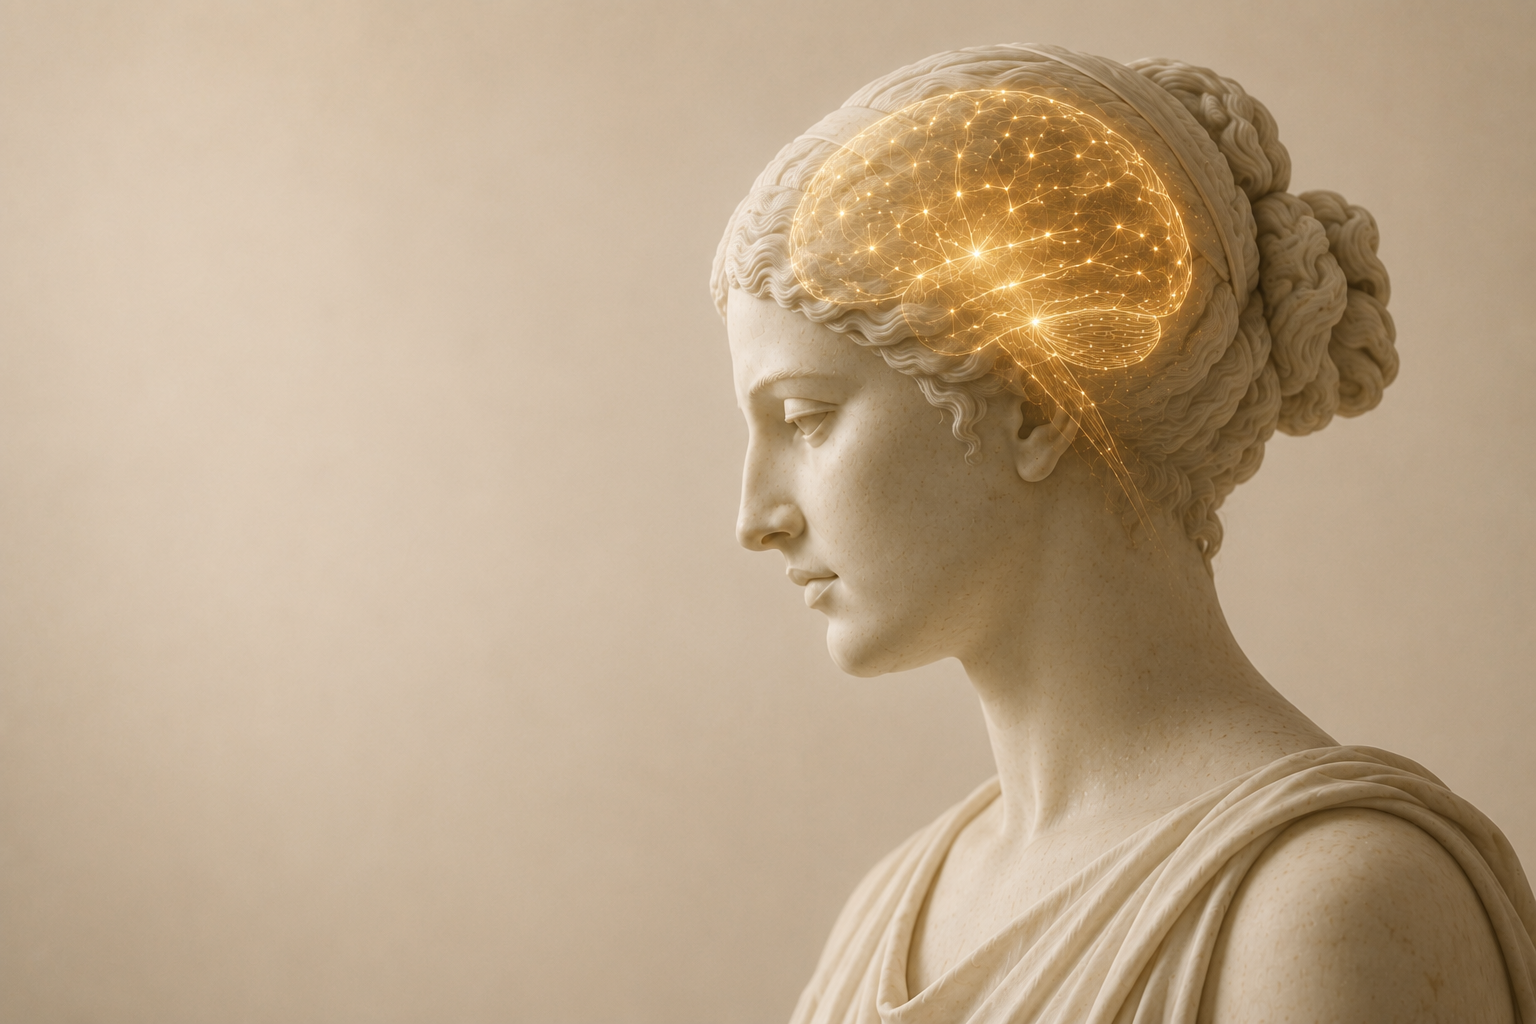
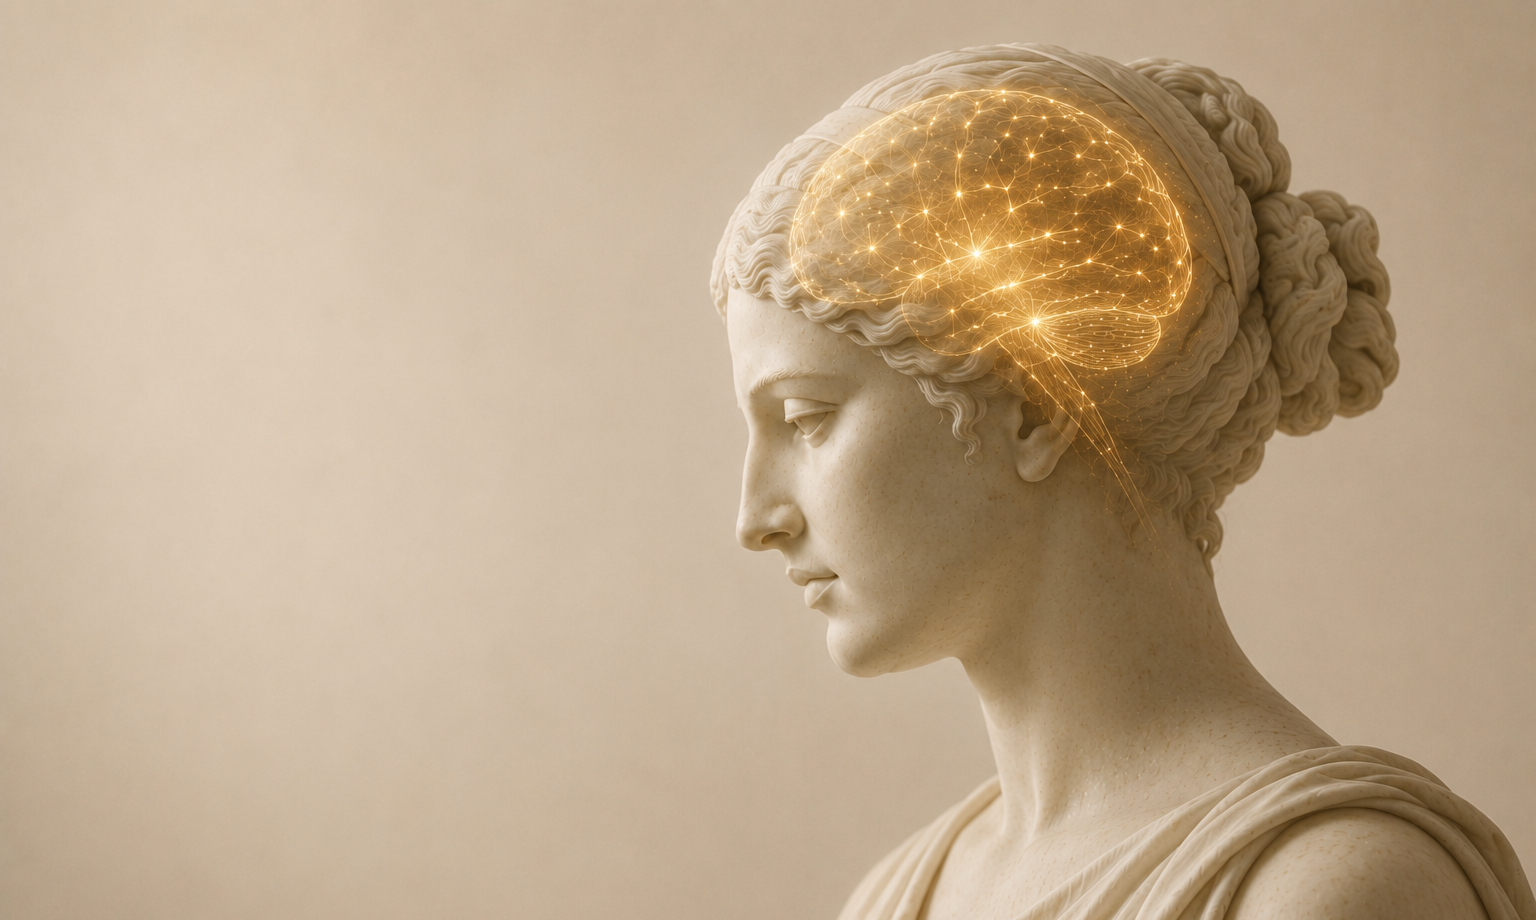
pics updated

Changed region(s): [[0.4375, 0.0304, 1.0, 1.0]]

diff --git a/reservation-en.html b/reservation-en.html
@@ -80,9 +80,8 @@
     .venue-split {
       display: grid;
       grid-template-columns: 1fr 1fr;
-      min-height: clamp(340px, 46vw, 580px);
     }
-    .venue-split__img { width: 100%; height: 100%; object-fit: cover; display: block; }
+    .venue-split__img { width: 100%; height: auto; display: block; }
     .venue-split__text {
       padding: var(--space-12) var(--space-10);
       background: var(--color-dark-bg);
@@ -179,7 +178,7 @@
         src="assets/images/retreat-hero.jpg"
         alt="Serene coastal landscape — the setting for The Reset Retreat"
         loading="eager"
-        style="position: absolute; inset: 0; width: 100%; height: 100%; object-fit: cover; opacity: 0.45;"
+        style="position: absolute; inset: 0; width: 100%; height: 100%; object-fit: contain; opacity: 0.45;"
       />
       <div style="position: absolute; inset: 0; background: linear-gradient(to bottom, rgba(19,35,58,0.05) 0%, rgba(19,35,58,0.90) 100%);"></div>
       <div class="container" style="position: relative; z-index: 1; width: 100%; padding-bottom: var(--space-16);">
@@ -234,12 +233,12 @@
     </section>
 
     <!-- ── Collage image break ─────────────────────────────── -->
-    <div aria-hidden="true" style="height: clamp(260px, 42vw, 540px); overflow: hidden;">
+    <div aria-hidden="true">
       <img
-        src="assets/images/reservation-collage.png"
+        src="assets/images/zeny.png"
         alt=""
         loading="lazy"
-        style="width: 100%; height: 100%; object-fit: cover; object-position: center;"
+        style="width: 100%; height: auto; display: block;"
       />
     </div>
 
@@ -290,12 +289,12 @@
     </div>
 
     <!-- ── Activities image break ─────────────────────────── -->
-    <div aria-hidden="true" style="height: clamp(260px, 42vw, 520px); overflow: hidden;">
+    <div aria-hidden="true">
       <img
         src="assets/images/reservation-activities.png"
         alt=""
         loading="lazy"
-        style="width: 100%; height: 100%; object-fit: cover; object-position: center;"
+        style="width: 100%; height: auto; display: block;"
       />
     </div>
 
@@ -330,12 +329,12 @@
     </section>
 
     <!-- ── Landscape image break ──────────────────────────── -->
-    <div aria-hidden="true" style="height: clamp(200px, 32vw, 420px); overflow: hidden;">
+    <div aria-hidden="true">
       <img
         src="assets/images/reservation-landscape.jpg"
         alt=""
         loading="lazy"
-        style="width: 100%; height: 100%; object-fit: cover; object-position: center 40%;"
+        style="width: 100%; height: auto; display: block;"
       />
     </div>
 

diff --git a/reservation.html b/reservation.html
@@ -80,9 +80,8 @@
     .venue-split {
       display: grid;
       grid-template-columns: 1fr 1fr;
-      min-height: clamp(340px, 46vw, 580px);
     }
-    .venue-split__img { width: 100%; height: 100%; object-fit: cover; display: block; }
+    .venue-split__img { width: 100%; height: auto; display: block; }
     .venue-split__text {
       padding: var(--space-12) var(--space-10);
       background: var(--color-dark-bg);
@@ -179,7 +178,7 @@
         src="assets/images/retreat-hero.jpg"
         alt="Klidná pobřežní krajina — místo konání Reset Retreatu"
         loading="eager"
-        style="position: absolute; inset: 0; width: 100%; height: 100%; object-fit: cover; opacity: 0.45;"
+        style="position: absolute; inset: 0; width: 100%; height: 100%; object-fit: contain; opacity: 0.45;"
       />
       <div style="position: absolute; inset: 0; background: linear-gradient(to bottom, rgba(19,35,58,0.05) 0%, rgba(19,35,58,0.90) 100%);"></div>
       <div class="container" style="position: relative; z-index: 1; width: 100%; padding-bottom: var(--space-16);">
@@ -246,12 +245,12 @@
     </section>
 
     <!-- ── Obrazová pauza — koláž ─────────────────────────── -->
-    <div aria-hidden="true" style="height: clamp(260px, 42vw, 540px); overflow: hidden;">
+    <div aria-hidden="true">
       <img
-        src="assets/images/reservation-collage.png"
+        src="assets/images/zeny.png"
         alt=""
         loading="lazy"
-        style="width: 100%; height: 100%; object-fit: cover; object-position: center;"
+        style="width: 100%; height: auto; display: block;"
       />
     </div>
 
@@ -321,12 +320,12 @@
     </div>
 
     <!-- ── Obrazová pauza — aktivity ──────────────────────── -->
-    <div aria-hidden="true" style="height: clamp(260px, 42vw, 520px); overflow: hidden;">
+    <div aria-hidden="true">
       <img
         src="assets/images/reservation-activities.png"
         alt=""
         loading="lazy"
-        style="width: 100%; height: 100%; object-fit: cover; object-position: center;"
+        style="width: 100%; height: auto; display: block;"
       />
     </div>
 
@@ -361,12 +360,12 @@
     </section>
 
     <!-- ── Obrazová pauza — krajina ───────────────────────── -->
-    <div aria-hidden="true" style="height: clamp(200px, 32vw, 420px); overflow: hidden;">
+    <div aria-hidden="true">
       <img
         src="assets/images/reservation-landscape.jpg"
         alt=""
         loading="lazy"
-        style="width: 100%; height: 100%; object-fit: cover; object-position: center 40%;"
+        style="width: 100%; height: auto; display: block;"
       />
     </div>
 

diff --git a/retreats.html b/retreats.html
@@ -23,8 +23,8 @@
     .retreat-details summary::after { content: '+'; font-family: var(--font-body); font-style: normal; font-size: 1.25rem; color: var(--color-text-muted); transition: transform var(--transition); line-height: 1; }
     .retreat-details[open] summary::after { content: '−'; }
 
-    .retreat-split { display: grid; grid-template-columns: 1fr 1fr; min-height: clamp(280px, 38vw, 500px); }
-    .retreat-split__img { width: 100%; height: 100%; object-fit: cover; display: block; }
+    .retreat-split { display: grid; grid-template-columns: 1fr 1fr; }
+    .retreat-split__img { width: 100%; height: auto; display: block; }
     .retreat-split__text { display: flex; align-items: center; justify-content: center; padding: var(--space-12) var(--space-10); background: var(--color-bg-secondary); }
     @media (max-width: 640px) {
       .retreat-split { grid-template-columns: 1fr; }
@@ -81,7 +81,7 @@
         src="assets/images/retreat-hero.jpg"
         alt="Klidná přírodní pobřežní krajina"
         loading="eager"
-        style="position: absolute; inset: 0; width: 100%; height: 100%; object-fit: cover; opacity: 0.52;"
+        style="position: absolute; inset: 0; width: 100%; height: 100%; object-fit: contain; opacity: 0.52;"
       />
       <div style="position: absolute; inset: 0; background: linear-gradient(to bottom, rgba(19,35,58,0) 20%, rgba(19,35,58,0.92) 100%);"></div>
       <div class="container" style="position: relative; z-index: 1; width: 100%; padding-bottom: var(--space-16);">
@@ -135,12 +135,12 @@
     </section>
 
     <!-- Obrazová pauza 1 — plná šířka, filmový formát -->
-    <div aria-hidden="true" style="height: clamp(260px, 42vw, 520px); overflow: hidden;">
+    <div aria-hidden="true">
       <img
         src="assets/images/retreat-photo-1.jpg"
         alt=""
         loading="lazy"
-        style="width: 100%; height: 100%; object-fit: cover; object-position: center 35%;"
+        style="width: 100%; height: auto; display: block;"
       />
     </div>
 
@@ -215,12 +215,12 @@
     </section>
 
     <!-- Obrazová pauza 3 — kratší plná šířka, přechod zpět do světla -->
-    <div aria-hidden="true" style="height: clamp(200px, 30vw, 380px); overflow: hidden;">
+    <div aria-hidden="true">
       <img
         src="assets/images/retreat-photo-2.jpg"
         alt=""
         loading="lazy"
-        style="width: 100%; height: 100%; object-fit: cover; object-position: center 50%;"
+        style="width: 100%; height: auto; display: block;"
       />
     </div>
 

diff --git a/retreats-en.html b/retreats-en.html
@@ -23,8 +23,8 @@
     .retreat-details summary::after { content: '+'; font-family: var(--font-body); font-style: normal; font-size: 1.25rem; color: var(--color-text-muted); transition: transform var(--transition); line-height: 1; }
     .retreat-details[open] summary::after { content: '−'; }
 
-    .retreat-split { display: grid; grid-template-columns: 1fr 1fr; min-height: clamp(280px, 38vw, 500px); }
-    .retreat-split__img { width: 100%; height: 100%; object-fit: cover; display: block; }
+    .retreat-split { display: grid; grid-template-columns: 1fr 1fr; }
+    .retreat-split__img { width: 100%; height: auto; display: block; }
     .retreat-split__text { display: flex; align-items: center; justify-content: center; padding: var(--space-12) var(--space-10); background: var(--color-bg-secondary); }
     @media (max-width: 640px) {
       .retreat-split { grid-template-columns: 1fr; }
@@ -81,7 +81,7 @@
         src="assets/images/retreat-hero.jpg"
         alt="Peaceful natural coastal landscape"
         loading="eager"
-        style="position: absolute; inset: 0; width: 100%; height: 100%; object-fit: cover; opacity: 0.52;"
+        style="position: absolute; inset: 0; width: 100%; height: 100%; object-fit: contain; opacity: 0.52;"
       />
       <div style="position: absolute; inset: 0; background: linear-gradient(to bottom, rgba(19,35,58,0) 20%, rgba(19,35,58,0.92) 100%);"></div>
       <div class="container" style="position: relative; z-index: 1; width: 100%; padding-bottom: var(--space-16);">
@@ -135,12 +135,12 @@
     </section>
 
     <!-- Image break 1 — full-bleed cinematic -->
-    <div aria-hidden="true" style="height: clamp(260px, 42vw, 520px); overflow: hidden;">
+    <div aria-hidden="true">
       <img
         src="assets/images/retreat-photo-1.jpg"
         alt=""
         loading="lazy"
-        style="width: 100%; height: 100%; object-fit: cover; object-position: center 35%;"
+        style="width: 100%; height: auto; display: block;"
       />
     </div>
 
@@ -215,12 +215,12 @@
     </section>
 
     <!-- Image break 3 — shorter full-bleed, transitions back to light -->
-    <div aria-hidden="true" style="height: clamp(200px, 30vw, 380px); overflow: hidden;">
+    <div aria-hidden="true">
       <img
         src="assets/images/retreat-photo-2.jpg"
         alt=""
         loading="lazy"
-        style="width: 100%; height: 100%; object-fit: cover; object-position: center 50%;"
+        style="width: 100%; height: auto; display: block;"
       />
     </div>
 

diff --git a/css/style.css b/css/style.css
@@ -479,11 +479,8 @@
   position: relative;
   overflow: hidden;
   width: 100%;
-  /* Match the native aspect ratio of hands.png (1095x428) so the entire
-     image displays with no cropping at any viewport width */
-  aspect-ratio: 1095 / 428;
-  /* Soft fade on the left edge so the cream-toned image blends into the
-     cream page background where it meets the headline text */
+  /* Match the native aspect ratio of Hero.png (1536x920) */
+  aspect-ratio: 1536 / 920;
   -webkit-mask-image: linear-gradient(to right, transparent 0%, #000 8%, #000 100%);
           mask-image: linear-gradient(to right, transparent 0%, #000 8%, #000 100%);
 }
@@ -492,7 +489,7 @@
   display: block;
   width: 100%;
   height: 100%;
-  object-fit: cover;       /* cover with matching aspect = full image, no crop */
+  object-fit: cover;
   object-position: center;
   transition: transform 0.8s ease-out;
 }
@@ -620,20 +617,16 @@
 .about {
   display: grid;
   grid-template-columns: 1fr 1fr;
-  min-height: 560px;
 }
 
 .about__image {
   position: relative;
-  overflow: hidden;
-  min-height: 480px;
 }
 
 .about__image img {
   width: 100%;
-  height: 100%;
-  object-fit: cover;
-  object-position: center top;
+  height: auto;
+  display: block;
   transition: transform 0.8s ease-out;
 }
 .about__image:hover img {
@@ -792,7 +785,7 @@
   }
   .hero__image {
     height: auto;
-    aspect-ratio: 1095 / 428;    /* native — full image visible */
+    aspect-ratio: 1536 / 920;
     width: 100%;
     order: -1;                   /* image above on tablet */
     -webkit-mask-image: linear-gradient(to bottom, #000 0%, #000 92%, transparent 100%);
@@ -813,10 +806,6 @@
 
   /* About */
   .about { grid-template-columns: 1fr; }
-  .about__image {
-    height: 60vw;
-    min-height: 360px;
-  }
   .about__panel {
     padding: var(--space-12) var(--space-8);
   }
@@ -847,8 +836,8 @@
     padding: calc(var(--space-12) + 72px) var(--space-5) var(--space-10);
   }
   .hero__image {
-    height: 72vw;
-    min-height: 260px;
+    aspect-ratio: 1536 / 920;
+    height: auto;
   }
 
   /* Services */
@@ -863,9 +852,6 @@
   .service-item:last-child { border-bottom: none; }
 
   /* About */
-  .about__image {
-    height: 80vw;
-  }
   .about__panel {
     padding: var(--space-10) var(--space-5);
   }
@@ -1155,11 +1141,6 @@
 @media (max-width: 1023px) {
   .bio__media {
     max-width: 420px;
-  }
-  .bio__media img {
-    aspect-ratio: 4 / 5;
-    object-fit: cover;
-    object-position: center top;
   }
 }
 

diff --git a/holistic-approach-en.html b/holistic-approach-en.html
@@ -144,7 +144,7 @@
           loading="lazy"
           width="3024"
           height="4032"
-          style="width: 100%; max-height: 65vh; object-fit: cover; object-position: center; display: block;"
+          style="width: 100%; height: auto; display: block;"
         />
       </figure>
     </section>

diff --git a/holistic-approach.html b/holistic-approach.html
@@ -137,7 +137,7 @@
           loading="lazy"
           width="3024"
           height="4032"
-          style="width: 100%; max-height: 65vh; object-fit: cover; object-position: center; display: block;"
+          style="width: 100%; height: auto; display: block;"
         />
       </figure>
     </section>

diff --git a/en.html b/en.html
@@ -90,8 +90,8 @@
         <img
           src="assets/images/Hero.png"
           alt=""
-          width="1095"
-          height="428"
+          width="1536"
+          height="920"
           loading="eager"
         />
       </div>

diff --git a/index.html b/index.html
@@ -89,8 +89,8 @@
         <img
           src="assets/images/Hero.png"
           alt=""
-          width="1095"
-          height="428"
+          width="1536"
+          height="920"
           loading="eager"
         />
       </div>
